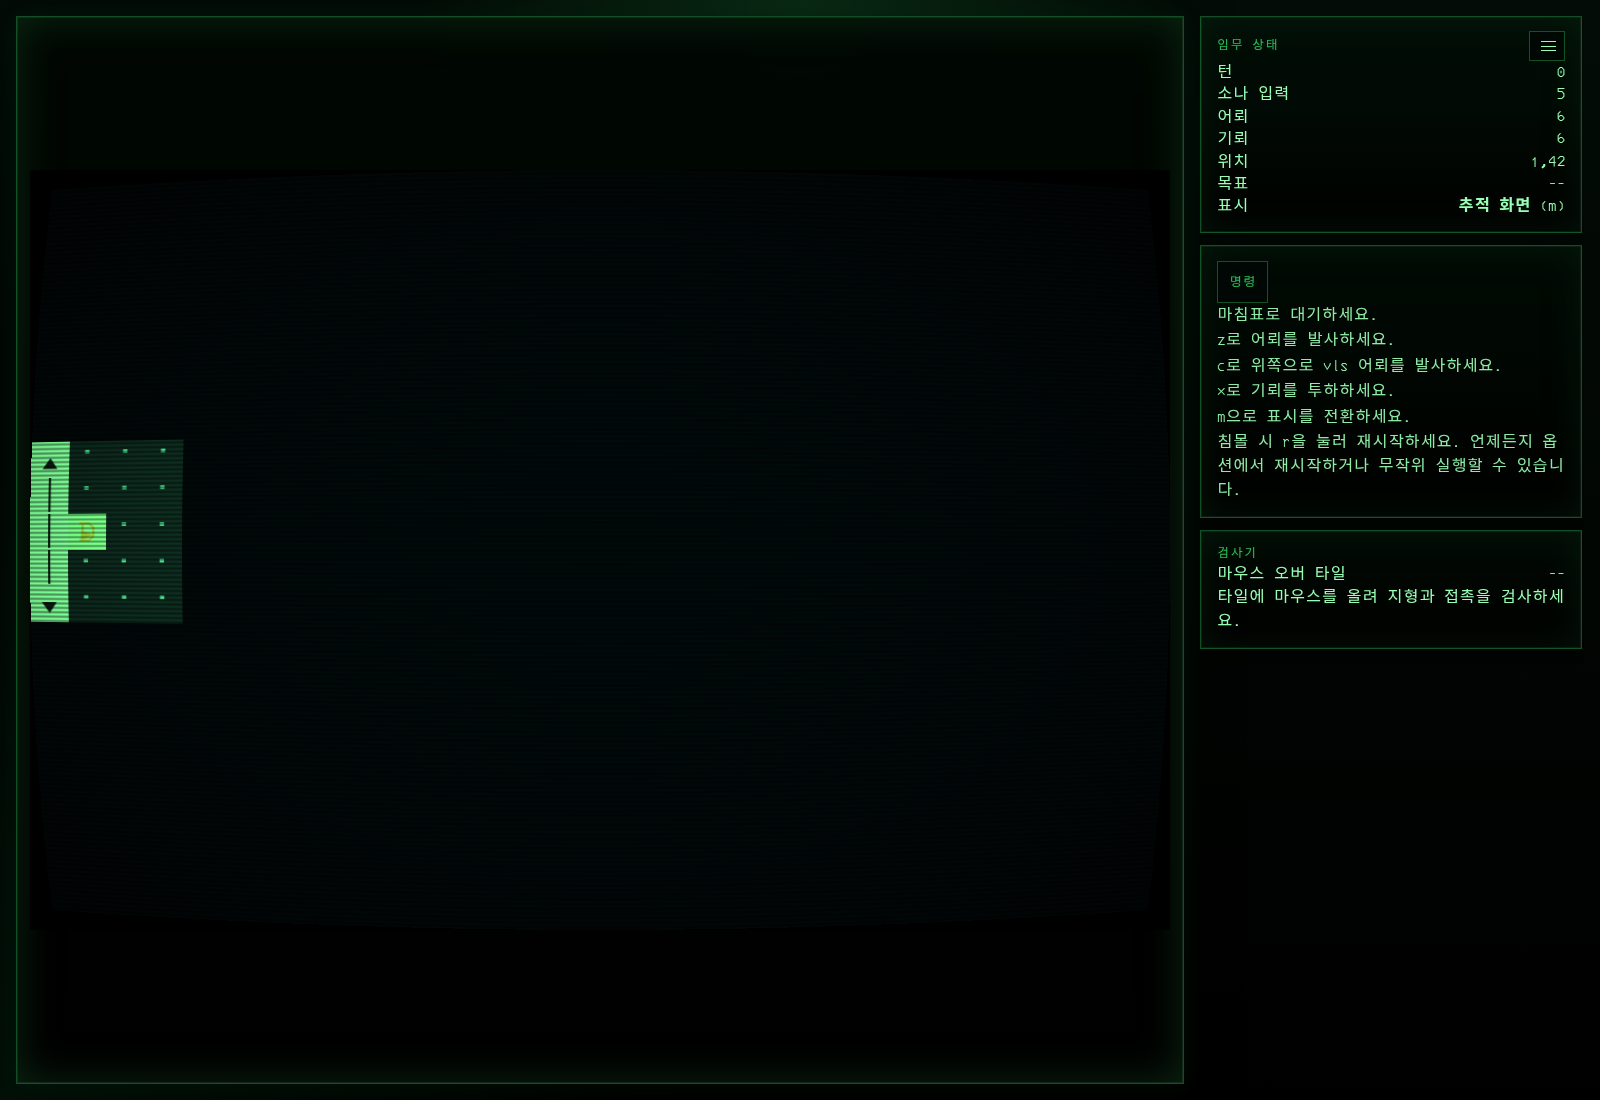
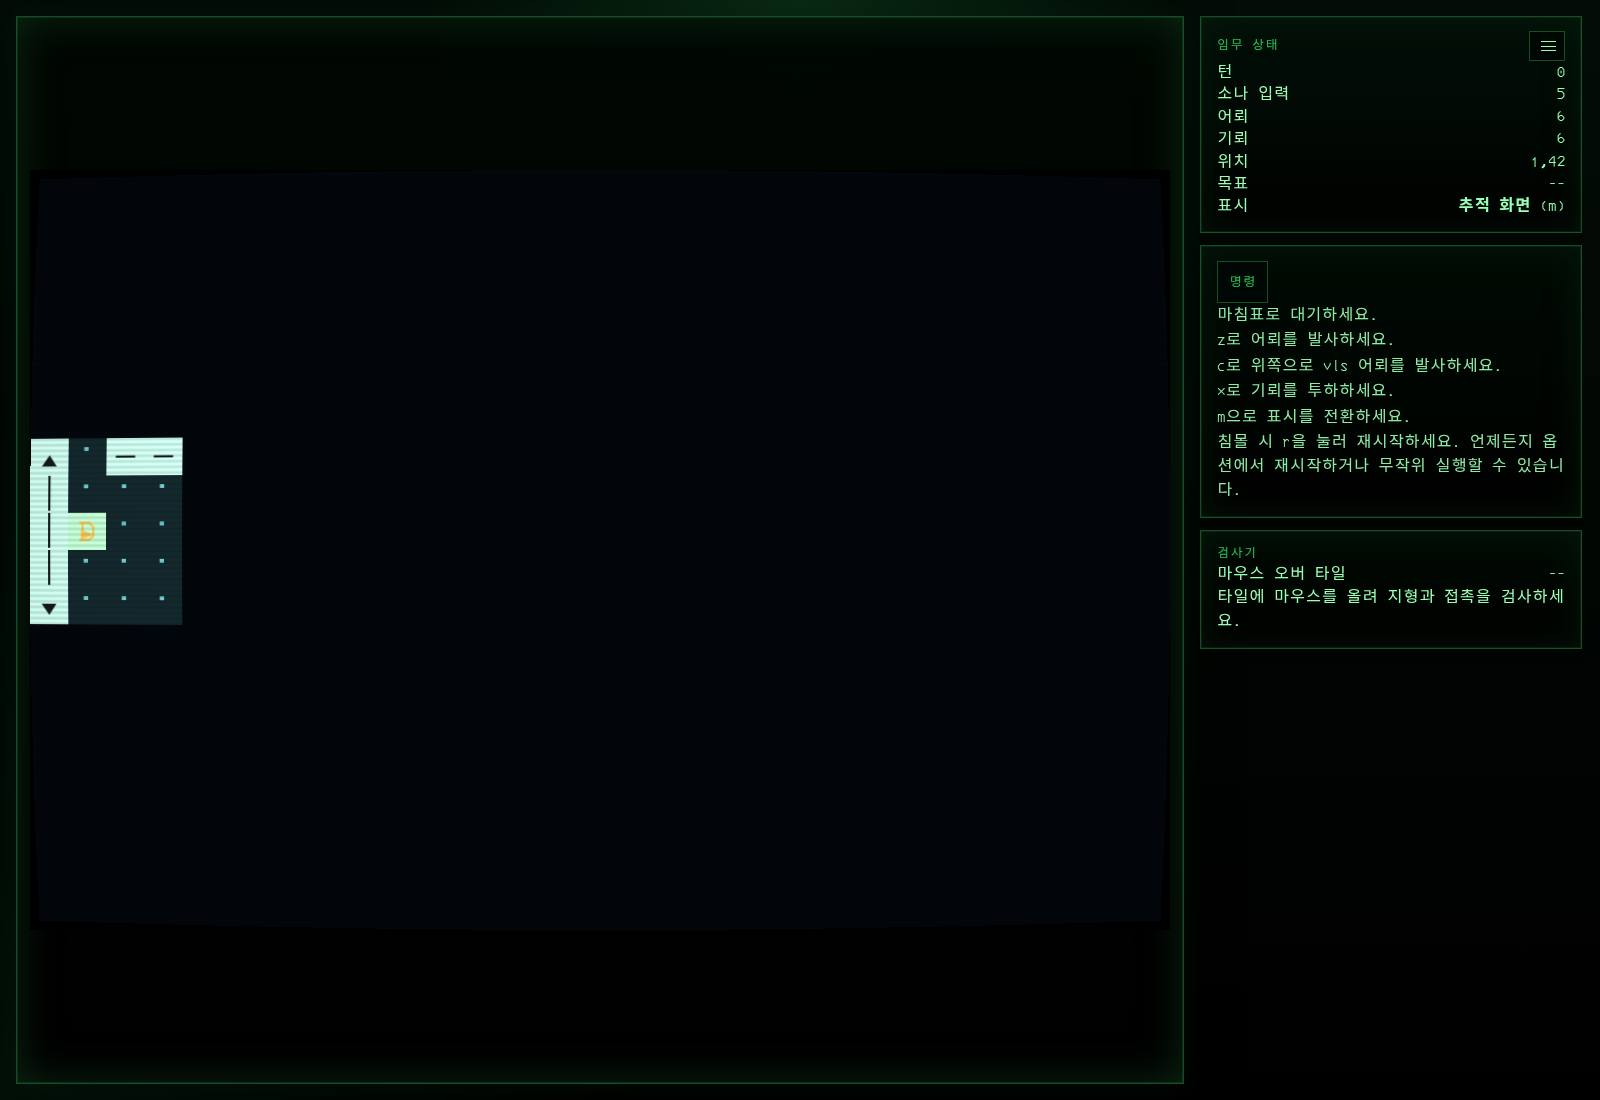
feat(render): soften CRT vignette and preserve palette
Dial the viewport CRT pass back toward the game's original palette while keeping a subtle screen curve and edge vignette. Refresh the PR screenshot so the captured preview matches the gentler shader tuning.

Assisted-by: openai/gpt-5.4 on opencode

Changed region(s): [[0.0, 0.3709, 0.125, 0.5873]]

diff --git a/src/render/crtWebgl.ts b/src/render/crtWebgl.ts
@@ -38,7 +38,7 @@ varying vec2 v;
 void main() {
   vec2 uv = vec2(v.x, 1.0 - v.y);
   vec2 centered = uv * 2.0 - 1.0;
-  vec2 warped = centered + centered * vec2(centered.y * centered.y * 0.045, centered.x * centered.x * 0.06);
+  vec2 warped = centered + centered * vec2(centered.y * centered.y * 0.018, centered.x * centered.x * 0.026);
   warped = warped * 0.5 + 0.5;
 
   if (warped.x < 0.0 || warped.x > 1.0 || warped.y < 0.0 || warped.y > 1.0) {
@@ -48,17 +48,18 @@ void main() {
 
   vec2 texel = 1.0 / uSourceResolution;
   vec3 base = texture2D(t, warped).rgb;
-  vec3 glow = base * 0.3;
-  glow += texture2D(t, warped + vec2(texel.x, 0.0)).rgb * 0.12;
-  glow += texture2D(t, warped - vec2(texel.x, 0.0)).rgb * 0.12;
-  glow += texture2D(t, warped + vec2(0.0, texel.y)).rgb * 0.08;
-  glow += texture2D(t, warped - vec2(0.0, texel.y)).rgb * 0.08;
+  vec3 glow = base * 0.16;
+  glow += texture2D(t, warped + vec2(texel.x, 0.0)).rgb * 0.08;
+  glow += texture2D(t, warped - vec2(texel.x, 0.0)).rgb * 0.08;
+  glow += texture2D(t, warped + vec2(0.0, texel.y)).rgb * 0.05;
+  glow += texture2D(t, warped - vec2(0.0, texel.y)).rgb * 0.05;
 
-  float scanline = 0.8 + 0.2 * sin(warped.y * uResolution.y * 1.35);
-  float vignette = smoothstep(1.15, 0.16, distance(v, vec2(0.5)));
+  float scanline = 0.94 + 0.06 * sin(warped.y * uResolution.y * 1.1);
+  float vignette = 1.0 - smoothstep(0.32, 0.92, distance(v, vec2(0.5))) * 0.18;
 
-  vec3 color = base + glow * vec3(0.08, 0.24, 0.1);
-  color *= vec3(0.72, 1.12, 0.74);
+  vec3 color = base;
+  color += glow * vec3(0.04, 0.06, 0.05);
+  color *= vec3(0.985, 1.01, 0.99);
   color *= scanline * vignette;
 
   gl_FragColor = vec4(clamp(color, 0.0, 1.0), 1.0);
